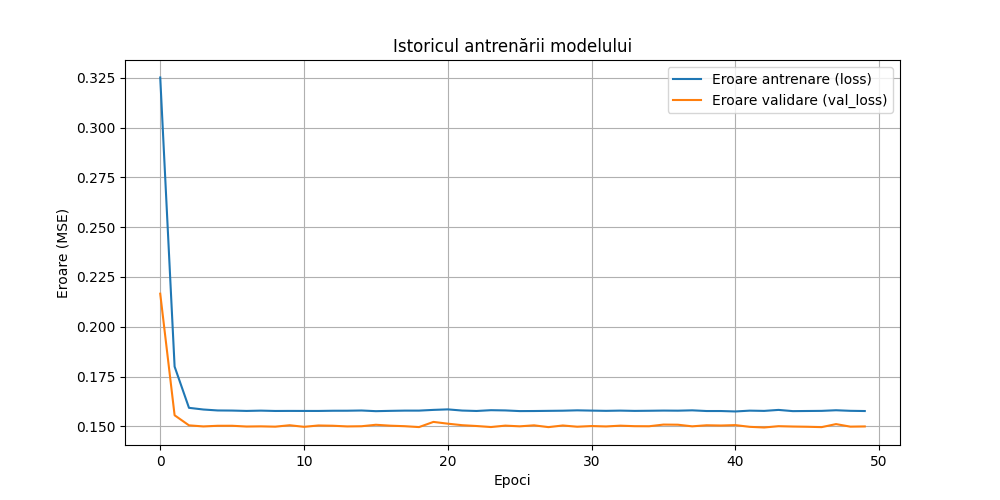
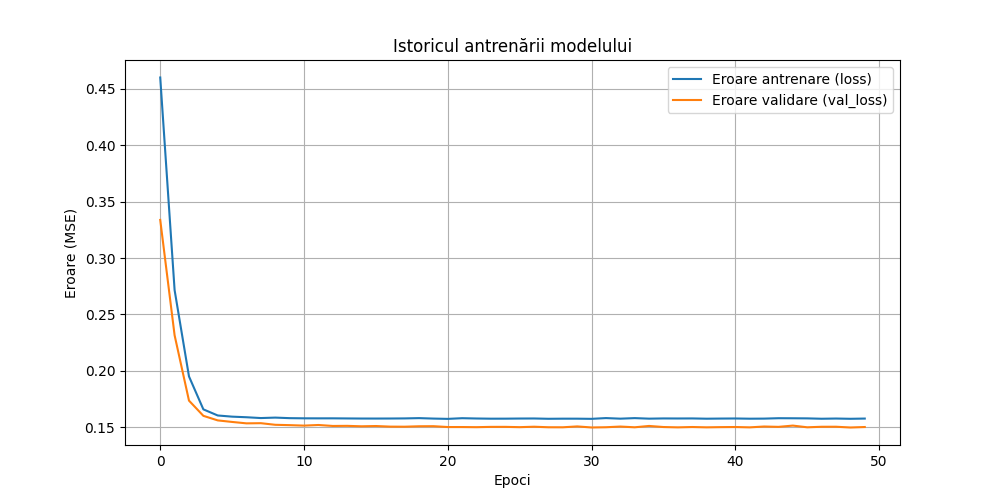
Etapa 5 in desfasurare

diff --git a/src/neural_network/antrenare_old.py b/src/neural_network/antrenare_old.py
@@ -1,0 +1,91 @@
+import keras
+import pandas as pd
+import numpy as np
+import matplotlib.pyplot as plt
+from sklearn.model_selection import train_test_split
+from sklearn.preprocessing import StandardScaler
+from tensorflow.keras.models import Sequential
+from tensorflow.keras.layers import Dense
+from tensorflow.keras.optimizers import Adam
+import os
+from config.config import CSV_FILENAME, MODEL_FILENAME, TEST_SIZE
+
+if not os.path.exists(CSV_FILENAME):
+    print(f"EROARE: Fișierul {CSV_FILENAME} nu există.")
+    print("Rulați întâi 'simulator.py' în modul 'MANUAL_LOGGING' pentru a genera date.")
+else:
+    print(f"Se încarcă datele din {CSV_FILENAME}...")
+    base_path = os.path.dirname(os.path.abspath(__file__))
+    dataset = pd.read_csv(CSV_FILENAME)
+    
+    dataset = dataset[(dataset['motor_stanga'] != 0) | (dataset['motor_dreapta'] != 0)]
+    
+    print(f"S-au încărcat {len(dataset)} eșantioane de date.")
+
+    X = dataset[['senzor_stanga', 'senzor_centru', 'senzor_dreapta']].values
+    Y = dataset[['motor_stanga', 'motor_dreapta']].values
+    
+    X_train, X_val, Y_train, Y_val = train_test_split(X, Y, test_size=TEST_SIZE, random_state=42)
+    
+    print(f"Set antrenare: {len(X_train)} eșantioane")
+    print(f"Set validare: {len(X_val)} eșantioane")
+
+    print("Se definește modelul...")
+    
+    model = Sequential()
+    model.add(Dense(16, input_dim=3, activation='relu'))
+    
+    model.add(Dense(8, activation='relu'))
+    
+    model.add(Dense(2, activation='tanh'))
+    
+    model.compile(loss='mean_squared_error',
+                  optimizer=Adam(learning_rate=0.001),
+                  metrics=[
+                      keras.metrics.BinaryAccuracy(),
+                      keras.metrics.FalseNegatives(),
+                      'accuracy',
+                      'mse'
+                  ],
+                  )
+    
+    model.summary()
+
+    print("Se antrenează modelul...")
+    
+    # history = model.fit(
+    #     X_train, Y_train,
+    #     validation_data=(X_val, Y_val),
+    #     # epochs=50,
+    #     # batch_size=32,
+    #     epochs=50,
+    #     batch_size=32,
+    #     verbose=1
+    # )
+
+    history = model.fit(
+        X_train, Y_train,
+        validation_data=(X_val, Y_val),
+        epochs=50,
+        batch_size=32,
+        verbose=2,
+        validation_batch_size=None,
+        callbacks=None,
+    )
+    
+    print(f"Se salvează modelul antrenat ca {MODEL_FILENAME}...")
+    model.save(MODEL_FILENAME)
+    print("Salvare completă.")
+
+    print("Se generează graficul de antrenare...")
+    plt.figure(figsize=(10, 5))
+    plt.plot(history.history['loss'], label='Eroare antrenare (loss)')
+    plt.plot(history.history['val_loss'], label='Eroare validare (val_loss)')
+    plt.title('Istoricul antrenării modelului')
+    plt.xlabel('Epoci')
+    plt.ylabel('Eroare (MSE)')
+    plt.legend()
+    plt.grid(True)
+    plt.savefig('graph.png')
+    plt.show()
+    print("Grafic salvat ca 'graph.png'.")

diff --git a/src/neural_network/antrenare.py b/src/neural_network/antrenare.py
@@ -24,6 +24,11 @@ def discretize_action(left_motor, right_motor, threshold=0.2):
 def main():
     print("=== Începere antrenare model ===")
 
+    # results_dir = os.path.abspath(os.path.join(os.path.dirname(__file__), '..', '..', 'results'))
+    # if not os.path.exists(results_dir):
+    #     os.makedirs(results_dir)
+    #     print(f"Creat directorul de rezultate: {results_dir}")
+
     if not os.path.exists(CSV_FILENAME):
         print(f"Eroare: Fișierul de date {CSV_FILENAME} nu există!")
         return
